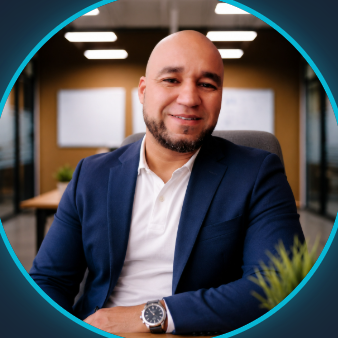
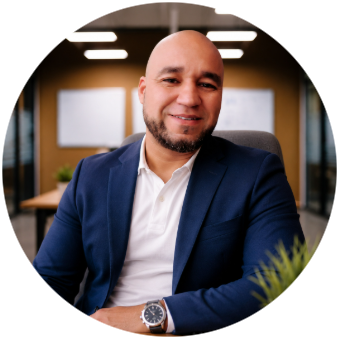
feat(profile): eliminate rectangular box and make photo purely circular with cyan halo ring

Changed region(s): [[0.0, 0.0, 1.0, 1.0]]

diff --git a/styles.css b/styles.css
@@ -786,14 +786,27 @@ a {
 .profile-photo-wrap {
   position: relative;
   width: min(320px, 28vw);
-  aspect-ratio: 0.88;
-  border-radius: 4px;
+  aspect-ratio: 1 / 1;
+  border-radius: 50%;
   overflow: hidden;
-  box-shadow: 0 16px 36px rgba(0, 32, 91, 0.12);
-  border: 1px solid var(--line-firm);
-  background: var(--section-alt);
+  box-shadow: 0 0 0 4px #00A3E0, 0 16px 44px rgba(0, 32, 91, 0.20);
+  border: none;
+  background: transparent;
   justify-self: center;
   z-index: 2;
+  display: flex;
+  align-items: center;
+  justify-content: center;
+  transition: transform 0.25s ease, box-shadow 0.25s ease;
+}
+
+[data-theme="dark"] .profile-photo-wrap {
+  box-shadow: 0 0 0 4px #00A3E0, 0 0 30px rgba(0, 163, 224, 0.35), 0 20px 48px rgba(0, 0, 0, 0.65);
+}
+
+.profile-photo-wrap:hover {
+  transform: scale(1.02);
+  box-shadow: 0 0 0 5px #38BDF8, 0 0 36px rgba(56, 189, 248, 0.45), 0 20px 48px rgba(0, 32, 91, 0.25);
 }
 
 .profile-photo {
@@ -801,7 +814,8 @@ a {
   height: 100%;
   display: block;
   object-fit: cover;
-  object-position: top center;
+  border-radius: 50%;
+  transform: scale(1.12);
 }
 
 .partner-lead-tag {
@@ -3444,11 +3458,16 @@ a {
     border-radius: 4px;
   }
 
-  .profile-photo-wrap,
   .case-graphic-wrap {
     width: min(320px, 80vw);
     aspect-ratio: 0.95;
     border-radius: 4px;
+  }
+
+  .profile-photo-wrap {
+    width: min(280px, 75vw);
+    aspect-ratio: 1 / 1;
+    border-radius: 50%;
   }
 
   .profile-content {
